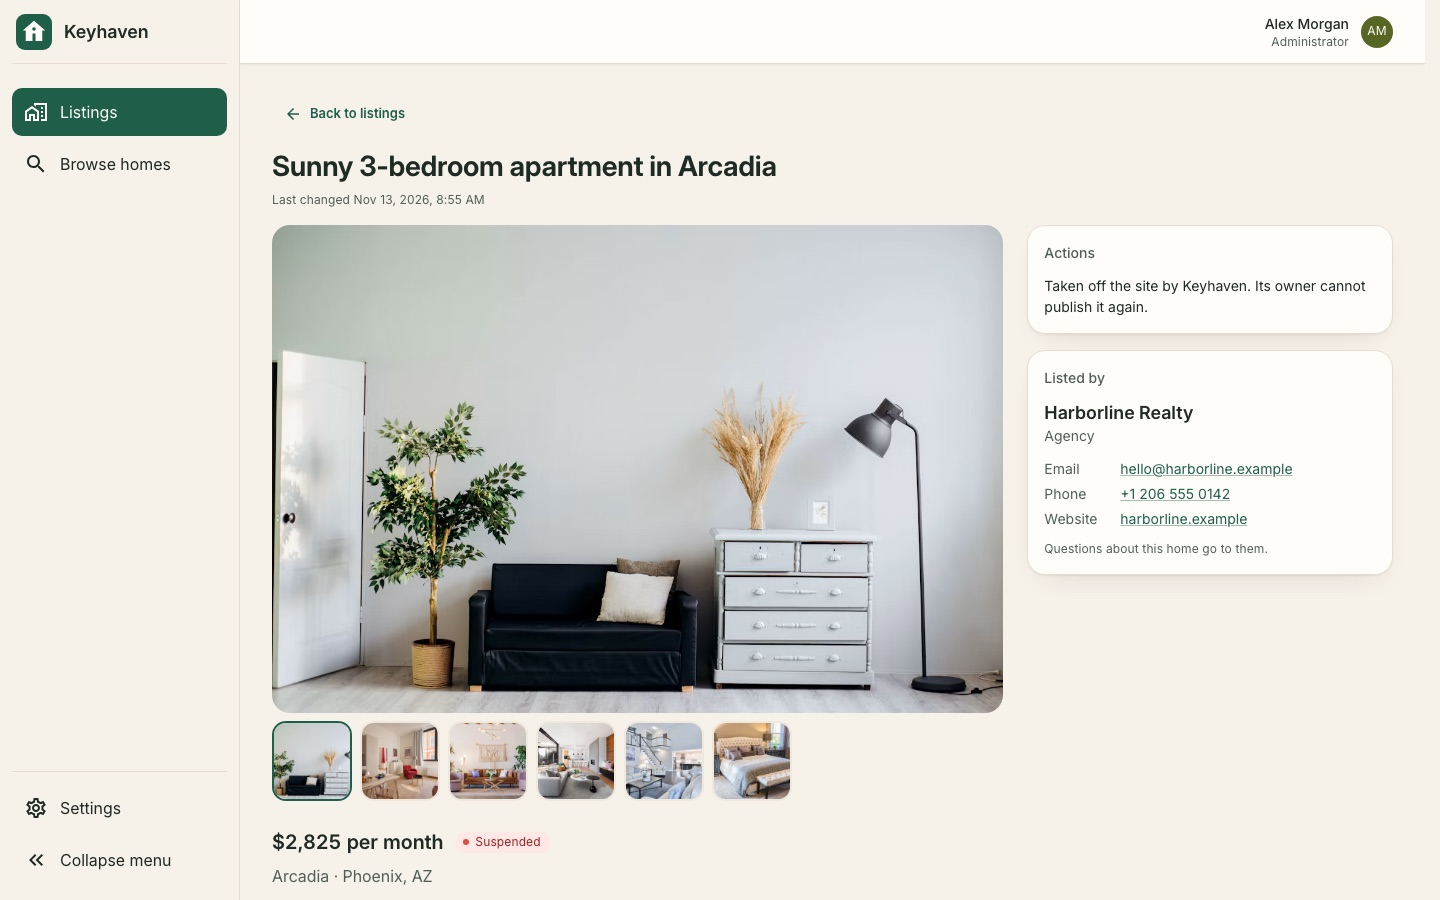
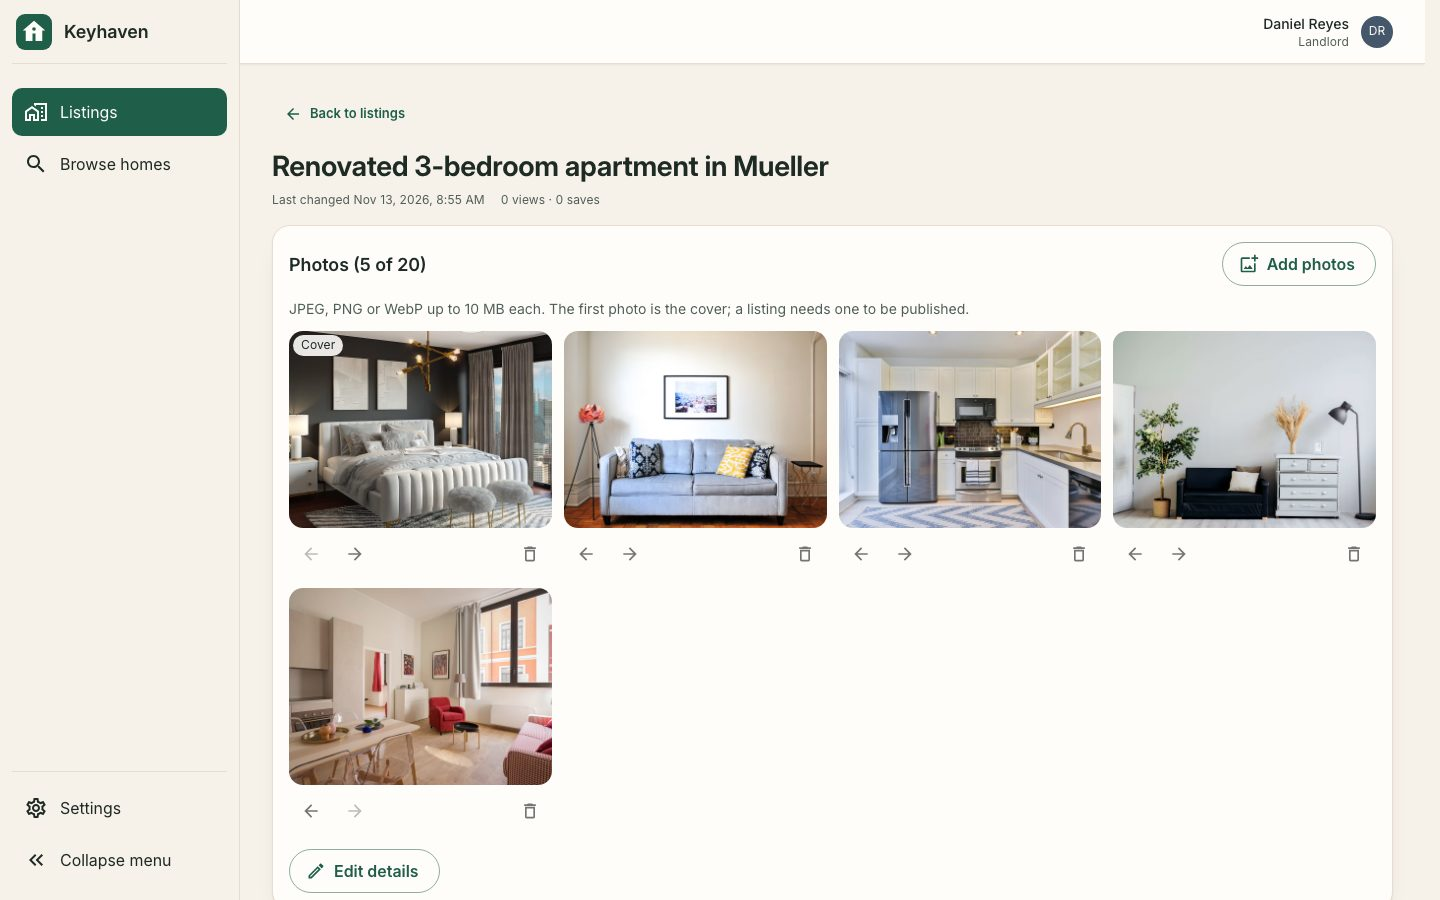
docs: M1 — search, saved searches, photo upload, search timings and the photo store

diff --git a/README.md b/README.md
@@ -14,9 +14,9 @@ agents manage listings and viewings; Keyhaven admins keep the site clean.
 
 A public demo product · US market · English UI · fictional data only
 
-![Keyhaven — Browse homes: a grid of listing cards with photos, rent, beds and baths, city filter and sorting](docs/browse.jpg)
+![Keyhaven — Browse homes: a typo-tolerant text search, city, rent, beds, baths and amenity filters, sorting, saved homes marked with a heart and a "Save this search" button over a grid of listing cards](docs/browse.jpg)
 
-[Quick start](#quick-start) · [Demo accounts](#demo-accounts) · [What works today](#what-works-today-m0) ·
+[Quick start](#quick-start) · [Demo accounts](#demo-accounts) · [What works today](#what-works-today-m0--m1) ·
 [Architecture](#architecture) · [Development](#development) · [Roadmap](#roadmap)
 
 </div>
@@ -25,11 +25,13 @@ A public demo product · US market · English UI · fictional data only
 
 ## Quick start
 
-Two ways to run it. Both end at a seeded database with ~1,000 listings and four demo accounts.
+Two ways to run it. Both end at a seeded database with ~1,000 listings, four demo accounts and an
+S3-compatible photo store (RustFS in Docker) for uploads.
 
 ### A. Your own PostgreSQL 18 (one command)
 
-Requires Node.js 26 (`.nvmrc`) and a PostgreSQL 18 server you can create databases on.
+Requires Node.js 26 (`.nvmrc`), a PostgreSQL 18 server you can create databases on, and Docker
+(only for the photo store — `make setup` starts it).
 
 ```bash
 # once: a role and three databases (app, shadow for schema checks, test)
@@ -38,15 +40,18 @@ psql -h localhost -d postgres -c "CREATE ROLE keyhaven LOGIN PASSWORD 'keyhaven'
   -c "CREATE DATABASE keyhaven_shadow OWNER keyhaven;" \
   -c "CREATE DATABASE keyhaven_test OWNER keyhaven;"
 
-make setup   # installs both packages, applies the migrations, seeds the demo data
+make setup   # starts the photo store, installs both packages, applies the migrations, seeds the demo data
 make dev     # backend on :3000, frontend on :5180 — Ctrl-C stops both
 ```
 
 Then open **http://localhost:5180** and sign in with a [demo account](#demo-accounts).
 
 `make setup` copies `backend/.env.example` to `backend/.env` (git-ignored) — edit `DATABASE_URL`
-there if your server, role or password differ. Emails (verification, password reset) are printed
-to the backend's log in local development; set `EMAIL_TRANSPORT=smtp` and `SMTP_URL` to send them.
+there if your server, role or password differ. Emails (verification, password reset, the daily
+saved-search digest) are printed to the backend's log in local development; set
+`EMAIL_TRANSPORT=smtp` and `SMTP_URL` to send them. Uploaded photos go to the RustFS container on
+:9000 (`make storage` starts it alone); point the `R2_*` variables at Cloudflare R2 or any
+S3-compatible bucket instead.
 
 ### B. Docker Compose (everything in containers)
 
@@ -58,8 +63,9 @@ docker compose up --build -d
 docker compose run --rm migrate npm run db:seed
 ```
 
-Then open **http://localhost:8080**. `docker compose logs backend` shows the emails. `docker compose
-down -v` deletes the data.
+Then open **http://localhost:8080**. `docker compose logs backend` shows the emails; photos go to
+the bundled RustFS (`storage`, provisioned by `storage-init`). `docker compose down -v` deletes the
+data.
 
 ## Demo accounts
 
@@ -67,31 +73,61 @@ Every password is **`Keyhaven-Demo-2026!`** (all people and homes are fictional)
 
 | Role | Account | Lands on |
 |---|---|---|
-| **Tenant** | `maya.lopez@keyhaven.example` | Browse homes — published listings, city filter, sorting |
-| **Landlord** | `daniel.reyes@keyhaven.example` | Their listings — counts per status, publish / unpublish |
+| **Tenant** | `maya.lopez@keyhaven.example` | Browse homes — search with filters, save homes and searches |
+| **Landlord** | `daniel.reyes@keyhaven.example` | Their listings — create, edit, photos, publish / unpublish, views and saves |
 | **Agent** (Harborline Realty) | `priya.nair@harborline.example` | The agency's listings — same dashboard, shared with the other agents |
 | **Admin** | `alex.morgan@keyhaven.example` | All listings — and the power to suspend one |
 
 Any visitor can create their own tenant or landlord account at `/signup`; the verification link is
 in the backend log (or your inbox with SMTP configured).
 
-## What works today (M0)
+## What works today (M0 + M1)
 
 - **Accounts:** sign-up (tenant or landlord), email verification, sign-in, forgot / reset password,
   password change, sessions ("sign out everywhere"), a security log — server-side sessions, no JWT.
 - **Roles, enforced on the server:** tenants browse; landlords manage their own listings; agents
   manage their agency's; admins see everything and can suspend a listing. A foreign listing answers
   403 (or 404 when the caller should not learn it exists) — see `backend/test/access.spec.ts`.
-- **Listings (read side):** ~1,000 seeded homes across Austin, Denver, Seattle, Chicago, Atlanta and
-  Phoenix with photos; browse page with city filter, sorting and paging; listing page with gallery,
-  facts and the landlord / agency card. **The exact address is hidden** until a viewing is
-  confirmed (M2) — only the owner and admins see it today.
-- **Dashboard (owner side):** counts per status, filters and search in the URL, publish /
-  unpublish (verified email required), admin suspension with a confirmation.
+- **Search:** ~1,000 seeded homes across Austin, Denver, Seattle, Chicago, Atlanta and Phoenix.
+  City, rent range, beds, baths, pets / furnished / parking, available-by date and a
+  **typo-tolerant text search** over title, neighborhood, ZIP and city (PostgreSQL `pg_trgm` word
+  similarity: "Walingford" finds Wallingford); sort by newest or rent; everything in the URL, so a
+  search is a link. Listing page with gallery, facts and the landlord / agency card. **The exact
+  address is hidden** until a viewing is confirmed (M2) — only the owner and admins see it today.
+- **Saved homes and saved searches:** a heart on every card; a search can be saved under a name
+  and, when alerts are on, a **daily email** (08:00 UTC) lists the homes published since the last
+  one — at most ten, with a link to the full results. Both live under **Saved**.
 
-  ![A listing's management page: photos, status badge, the exact address, Suspend listing for an admin and the landlord's contact card](docs/manage.jpg)
+  ![Saved searches: each one shows its filters as chips, when the last email went out, a switch for the daily email and a delete button](docs/saved.jpg)
+- **Dashboard (owner side):** counts per status, filters and search in the URL, **create and edit
+  listings**, **photo upload** straight from the browser to the object store (presigned URLs,
+  JPEG / PNG / WebP up to 10 MB, 20 per listing, reorder and remove, the first one is the cover),
+  publish / unpublish (verified email and at least one photo required), admin suspension with a
+  confirmation, **views and saves** per listing.
+
+  ![A listing's management page: the photo manager with a cover badge, move and remove buttons, Edit details, the views and saves count](docs/manage.jpg)
 - **Operations:** one `docker compose up`, health endpoints, Prometheus metrics (admins), structured
   logs with trace ids, rate limits on every auth endpoint, CSRF double-submit, strict headers.
+
+### Search speed
+
+Measured on the full seed (1,000 listings, 827 published) with `npm run bench:search` in
+`backend/` — 30 runs per query against the running app over HTTP, one warm-up run, local
+PostgreSQL 18 on a laptop:
+
+| Query | Results | p50 | p95 | max |
+|---|---|---|---|---|
+| newest, no filters | 827 | 6.1 ms | 8.3 ms | 10.8 ms |
+| city + rent range | 43 | 5.5 ms | 6.8 ms | 7.5 ms |
+| city + beds + baths + amenities | 19 | 5.3 ms | 10.2 ms | 31.6 ms |
+| available by date, rent high to low | 486 | 8.1 ms | 9.0 ms | 10.1 ms |
+| text search, one typo | 17 | 10.8 ms | 19.9 ms | 20.9 ms |
+| text search, two terms + filters | 29 | 6.3 ms | 6.8 ms | 8.1 ms |
+| page 40 of newest | 827 | 3.8 ms | 4.6 ms | 6.0 ms |
+
+One SQL statement returns the page's ids and the total (`count(*) over ()`), Prisma loads the
+cards by id; partial indexes on the published rows (rent, published date, bedrooms, available
+date) and a trigram GIN index on the search text.
 
 ## Architecture
 
@@ -104,8 +140,9 @@ backend/    NestJS 11 (Express) · Prisma 7 on PostgreSQL 18 · Zod 4 (validatio
             nodemailer (SMTP) · Jest + supertest integration tests
 ```
 
-- **Modular monolith:** `user`, `audit`, `email`, `auth`, `listing`. Controller → service →
-  repository; only repositories touch Prisma; every query has an explicit `select`.
+- **Modular monolith:** `user`, `audit`, `email`, `auth`, `storage`, `listing`, `saved-search`.
+  Controller → service → repository; only repositories touch Prisma; every query has an explicit
+  `select`.
 - **Security by default:** every handler is `@Public()` or `@Authorize(policy)` — the app refuses
   to start otherwise. Policies live in one file (`backend/src/common/security/policies.ts`); ownership
   checks in one service. Sessions are revocable rows; cookies are `HttpOnly` + `SameSite=Lax`.
@@ -116,6 +153,11 @@ backend/    NestJS 11 (Express) · Prisma 7 on PostgreSQL 18 · Zod 4 (validatio
   response is checked against them at runtime.
 - **Email as a port:** `EmailSender` with a `log` adapter (local) and an `smtp` adapter; sent
   after the database transaction committed.
+- **Photos as a port:** `ObjectStorage` (presigned upload, head, delete, public URL) with one S3
+  adapter that talks to RustFS locally and Cloudflare R2 in production. The browser uploads straight
+  to the store; the backend confirms the object (size and image signature) before the photo shows.
+- **Daily digest:** a cron in the app (`@nestjs/schedule`), no queue — one process, one run a day;
+  an admin endpoint triggers it on demand.
 
 ## Development
 
@@ -128,6 +170,8 @@ npm test                       # integration tests on TEST_DATABASE_URL (migrate
 npm run db:migrate:create -- --name <module>_<description>   # then edit the SQL + write down.sql
 npm run db:migrate:dev | db:check | db:seed
 npm run openapi:generate       # after an API change (commit openapi.json)
+npm run bench:search           # the search timings above, against a running backend
+npm run storage:init           # bucket, public-read policy and CORS on the photo store
 
 cd frontend
 npm run dev                    # Vite on :5180, /api proxied to :3000 (same-origin cookies)
@@ -148,6 +192,7 @@ npm run build                  # includes the bundle budget check
 | `APP_URL` | Where the app opens — links in emails point here |
 | `EMAIL_TRANSPORT`, `SMTP_URL`, `EMAIL_FROM` | `log` (default) or `smtp` |
 | `SESSION_*`, `COOKIE_*`, `CORS_ALLOWED_ORIGINS`, `TRUST_PROXY_HOPS` | Sessions and HTTP security |
+| `R2_ENDPOINT`, `R2_INTERNAL_ENDPOINT`, `R2_REGION`, `R2_BUCKET`, `R2_ACCESS_KEY`, `R2_SECRET_KEY`, `R2_PUBLIC_URL` | The S3-compatible photo store: RustFS locally (`us-east-1`), Cloudflare R2 in production (`auto`) |
 | `DEMO_MODE`, `DEMO_PROTECTED_EMAILS` | Public demo: the showcase accounts cannot change their password or end their sessions |
 | `LOG_LEVEL`, `DB_QUERY_LOG`, `DB_POOL_SIZE` | Observability and the pool |
 
@@ -157,8 +202,8 @@ All of them, with local values, are in `backend/.env.example`.
 
 | Milestone | Scope |
 |---|---|
-| **M0 — Foundation** (this release) | Accounts, roles, seed, dashboards by role, access tests |
-| **M1 — Listings and search** | Search with filters, sorting and typo-tolerant text; saved listings and searches with daily emails; create / edit listings with photo upload; views and saves |
+| **M0 — Foundation** | Accounts, roles, seed, dashboards by role, access tests |
+| **M1 — Listings and search** (this release) | Search with filters, sorting and typo-tolerant text; saved listings and searches with daily emails; create / edit listings with photo upload; views and saves |
 | **M2 — Viewing booking** | Weekly viewing hours and slots, booking without double booking (proved by a test), confirm / decline / cancel, reminders, calendars |
 
 Not planned for M0–M2: applications, payments, property management, map search, mobile apps.
